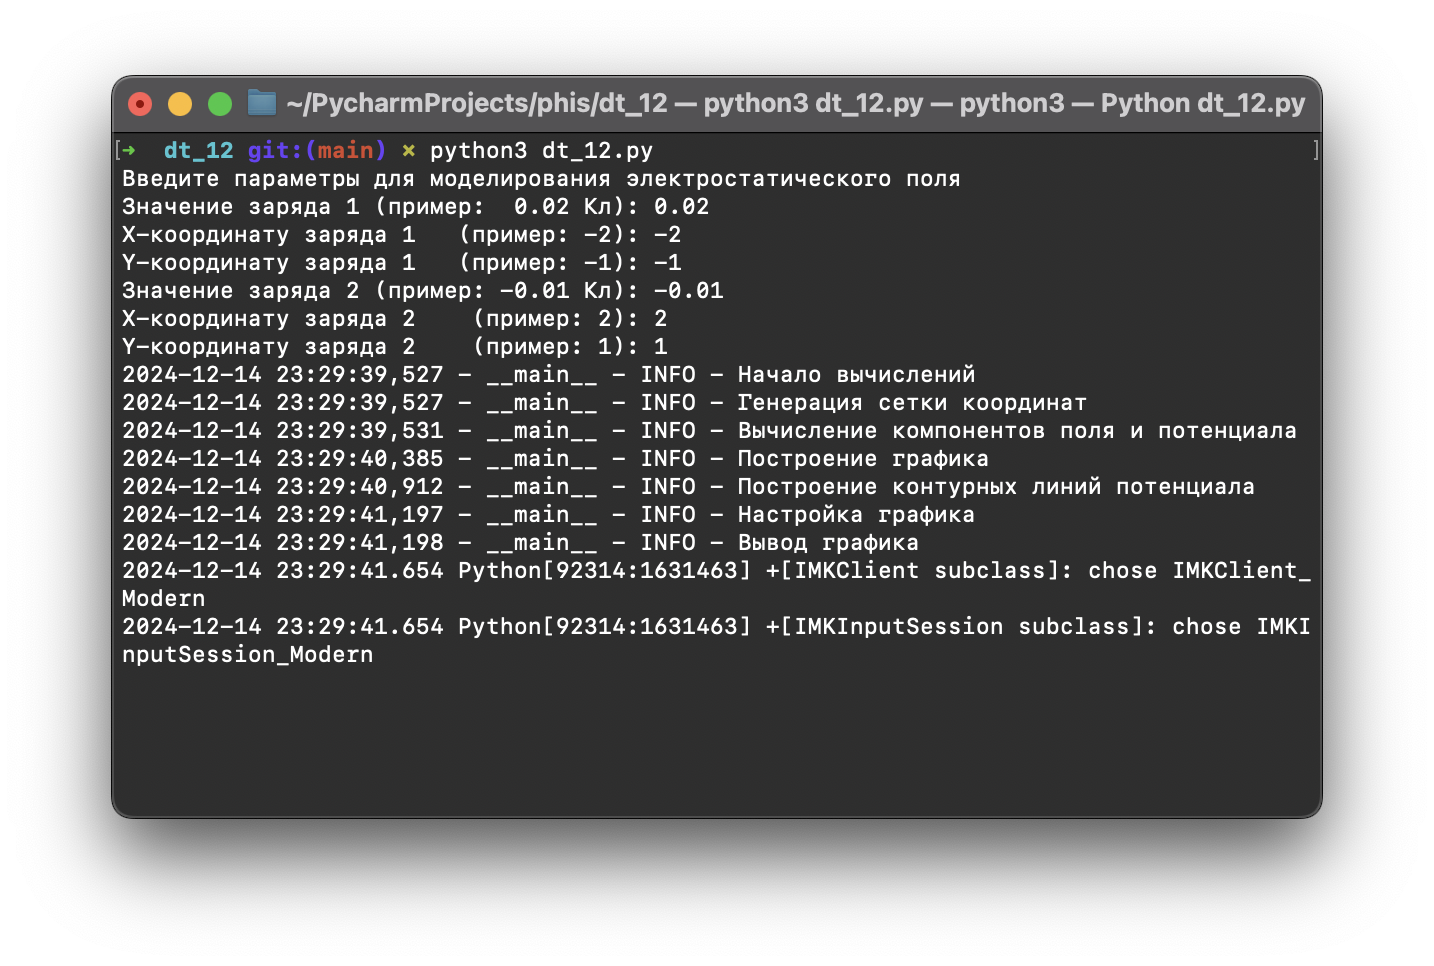
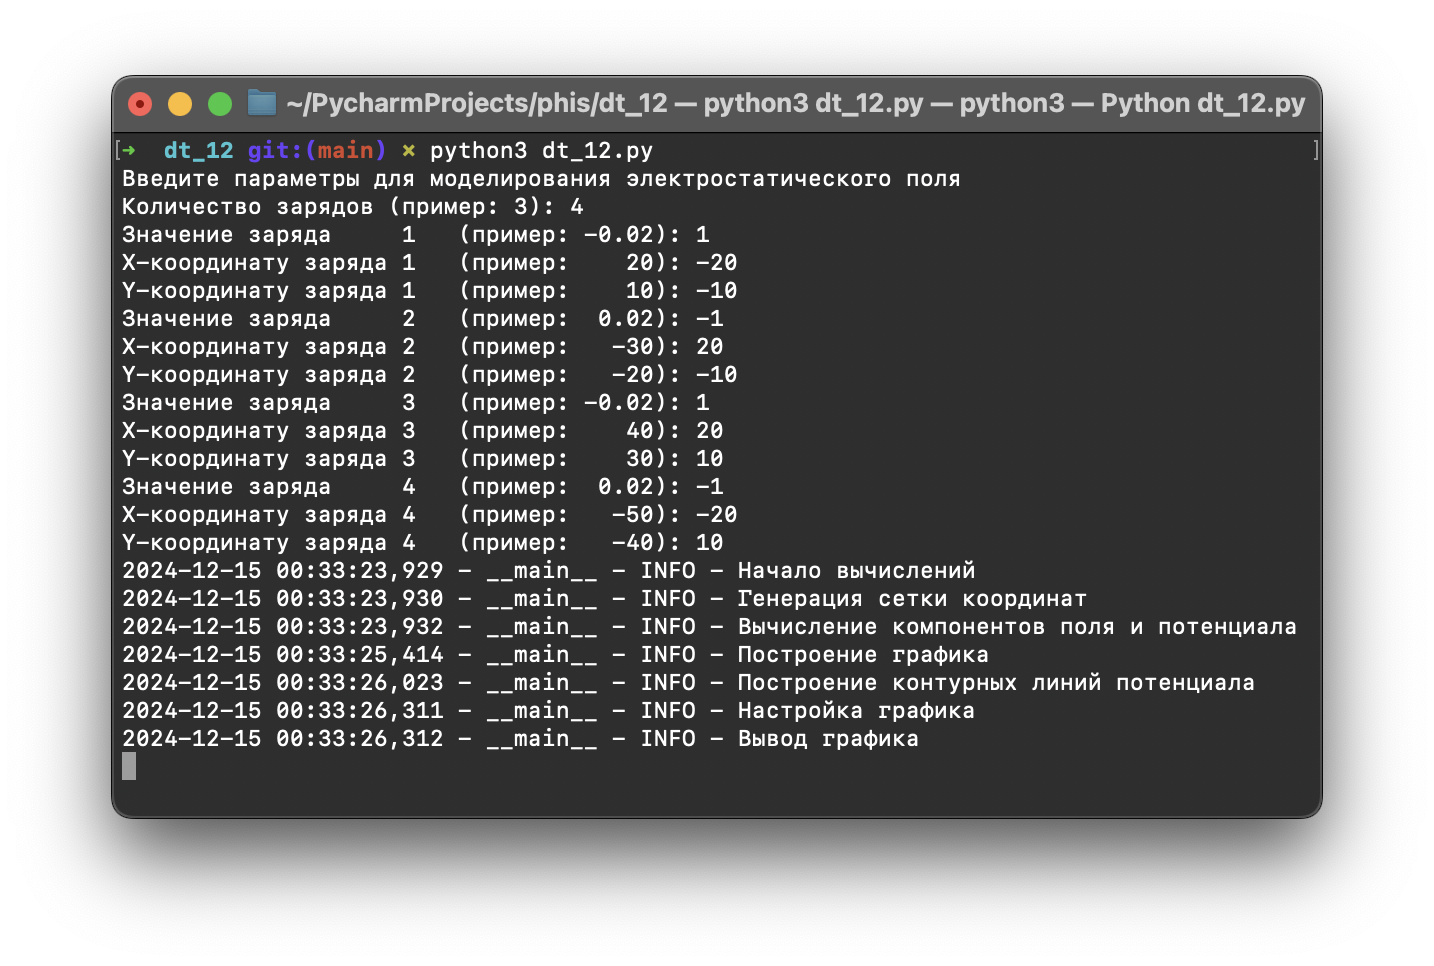
v2 - multipoint

Changed region(s): [[0.0921, 0.1863, 0.9205, 0.7764], [0.0921, 0.1863, 0.3375, 0.2484], [0.0614, 0.7764, 0.0921, 0.8075]]

diff --git a/dt_12.py b/dt_12.py
@@ -63,29 +63,41 @@ def potential(charges, x, y):
 print("Введите параметры для моделирования электростатического поля")
 
 log.debug("Ожидание ввода параметров")
-q1 = float(input("Значение заряда 1 (пример:  0.02 Кл): ") or 0.02)
-x1 = float(input("X-координату заряда 1   (пример: -2): ") or -20)
-y1 = float(input("Y-координату заряда 1   (пример: -1): ") or -10)
+n = int(input("Количество зарядов (пример: 3): ") or 3)
 
-q2 = float(input("Значение заряда 2 (пример: -0.01 Кл): ") or -0.01)
-x2 = float(input("X-координату заряда 2    (пример: 2): ") or 20)
-y2 = float(input("Y-координату заряда 2    (пример: 1): ") or 10)
+qs, xs, ys = [], [], []
+
+for i in range(n):
+    qs.append(float(
+        input(
+            f"Значение заряда     {i + 1:<3} (пример: {'-' * ((i + 1) % 2):1}0.02): "
+        ) or (0.02 * (1 if (i % 2) else -1))))
+    xr = (20 + 10 * max(i - 0, 0)) * (-1 if (i % 2) else 1)
+    xs.append(float(
+        input(
+            f"X-координату заряда {i + 1:<3} (пример: {xr:5}): "
+        ) or xr))
+    yr = (10 + 10 * max(i - 0, 0)) * (-1 if (i % 2) else 1)
+    ys.append(float(
+        input(
+            f"Y-координату заряда {i + 1:<3} (пример: {yr:5}): "
+        ) or yr))
+
 log.debug("Параметры введены")
 
-log.debug(f"Заряд 1: {q1} Кл, X-координата: {x1}, Y-координата: {y1}")
-log.debug(f"Заряд 2: {q2} Кл, X-координата: {x2}, Y-координата: {y2}")
+for i in range(n):
+    log.debug(f"Заряд {i + 1}: {qs[i]} Кл, X-координата: {xs[i]}, Y-координата: {ys[i]}")
 
 log.info("Начало вычислений")
 
-charges = [
-    PointCharge(q1, x1, y1),
-    PointCharge(q2, x2, y2)
-]
+charges = []
+for i in range(n):
+    charges.append(PointCharge(qs[i], xs[i], ys[i]))
 
-linspace_r = int(np.sqrt(abs(x1 - x2) ** 2 + abs(y1 - y2) ** 2 + q2 ** 2) * 1.1 + 1)
+linspace_r = int(np.sqrt(abs(max(xs) - min(xs)) ** 2 + abs(max(ys) - min(ys)) ** 2) * 1.1 + 1)
 grids = 500
-x_mid = (x2 + x1) / 2
-y_mid = (y2 + y1) / 2
+x_mid = (max(xs) + min(xs)) / 2
+y_mid = (max(ys) + min(ys)) / 2
 
 log.info("Генерация сетки координат")
 x = np.linspace(-linspace_r + x_mid, linspace_r + x_mid, grids)
@@ -109,7 +121,7 @@ plt.streamplot(X, Y, Ex, Ey, color=colors, linewidth=1, density=2.5, cmap=cm.rai
 log.info("Построение контурных линий потенциала")
 vv = np.sort(np.unique(V))
 log.debug(f"Число уникальных значений потенциала: {len(vv)} / {len(V)}")
-vn, vp = vv[vv < 0], vv[vv > 0]
+vn, vp = [0] + vv[vv < 0].tolist(), [0] + vv[vv > 0].tolist()
 
 log.debug(f"Интервалы потенциала: {vn[0]}, {vp[-1]}")
 

diff --git a/README.md b/README.md
@@ -3,7 +3,19 @@
 Визуализация эквипотенциальных поверхностей системы точечных зарядов. При выполнении предыдущего задания на визуализацию
 линий напряженности рекомендуется совместить модели в одну.
 
-## Пример:
+## Примеры:
+
+### 1
 
 ![пример 1 ввод](./examp-1-inp.png)
 ![пример 1 результат](./examp-1-out.png)
+
+### 2
+
+![пример 2 ввод](./examp-2-inp.png)
+![пример 2 результат](./examp-2-out.png)
+
+### 3
+
+![пример 3 ввод](./examp-3-inp.png)
+![пример 3 результат](./examp-3-out.png)
